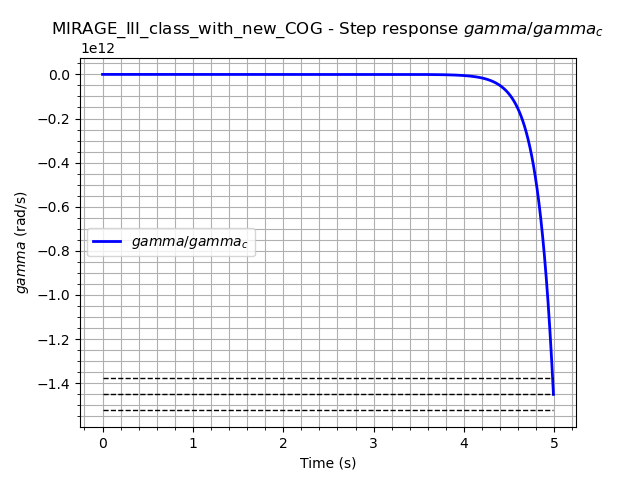
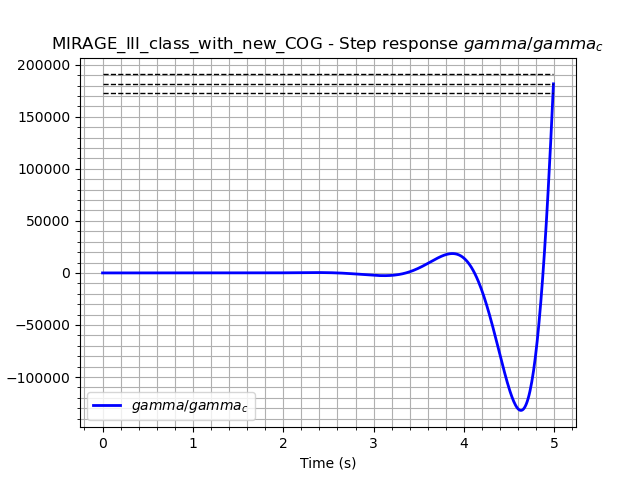
Update v6.01.2025:1

Changed region(s): [[0.0, 0.0312, 0.9375, 0.875]]

diff --git a/lib/control_aircraft_model.py b/lib/control_aircraft_model.py
@@ -477,7 +477,7 @@ class ControlAircraftModel:
         
         
             #close loop matrix definition
-            self.gain_Kr = sisopy31.sisotool(1 * minreal(self.TF_q)) #-0.20954#-0.20954 #sisopy31.sisotool(1 * minreal(self.TF_q))
+            self.gain_Kr = -0.20954 #sisopy31.sisotool(1 * minreal(self.TF_q)) #-0.20954 #sisopy31.sisotool(1 * minreal(self.TF_q))
             self.matrix_A_q = self.matrix_A_new - (self.gain_Kr * np.dot(self.matrix_B_new, self.matrix_C_q))
             self.matrix_B_q = self.gain_Kr * self.matrix_B_new
             self.matrix_D_q = self.gain_Kr * self.matrix_D
@@ -515,7 +515,7 @@ class ControlAircraftModel:
                 labels=[r"$q/q_c$"],
                 title=r"Step response $q/q_c$",
                 xlabel="Time (s)",
-                ylabel=r"$q$ (rad/s)",
+                ylabel=r"$q$",
                 fig_name=f'{self.name} - '+"Step_Response_q_qc",
             )
             
@@ -618,7 +618,7 @@ class ControlAircraftModel:
                 labels=[r"$gamma/gamma_c$"],
                 title=r"Step response $gamma/gamma_c$",
                 xlabel="Time (s)",
-                ylabel=r"$gamma$ (rad/s)",
+                ylabel=r"$gamma$",
                 fig_name=f'{self.name} - '+"Step_Response_gamma_gammac",
             )
 
@@ -664,7 +664,7 @@ class ControlAircraftModel:
                 labels=[r"$z/z_c$"],
                 title=r"Step response $z/z_c$",
                 xlabel="Time (s)",
-                ylabel=r"$z$ (rad/s)",
+                ylabel=r"$z$",
                 fig_name=f'{self.name} - '+"Step_Response_z_zc",
             )
             

diff --git a/README.md b/README.md
@@ -1,5 +1,122 @@
 # Au511 - Modelisation Aéronef Pilote Automatique
 
-## Commande utiles :
+|                       | **Details**                                            |
+|-----------------------|--------------------------------------------------------|
+| **Date of Creation**  | 13.11.2024                                             |
+| **Author**            | Valentin DESFORGES - Pierre VAUDRY                     |
+| **Version**           | v6.01.2024                                             |
+| **Python Version**    | Python 3.12.X                                          |
+| **Key Libraries Used**| `control`, `scipy`, `matplotlib`, `numpy`, `inquirer`  |
 
-> 
+---
+
+## Table of Contents
+1. [Introduction](#introduction)
+2. [Features](#features)
+3. [General Methodology](#general-methodology)
+4. [Installation Instructions](#installation-instructions)
+5. [How to Run the Code](#how-to-run-the-code)
+6. [Results](#results)
+7. [Future Improvements](#future-improvements)
+8. [References](#references)
+
+---
+
+## Introduction
+
+This project is part of the **Control of Aircraft** coursework and focuses on the modeling and control of a fighter aircraft (MIRAGE III class). The goal is to understand the dynamic behavior of an aircraft, analyze its stability, and develop control loops to enhance its performance. The project uses Python's scientific computing ecosystem to implement and analyze control algorithms.
+
+---
+
+## Features
+
+- **Aircraft Modeling**: Comprehensive modeling of an aircraft's dynamics, including aerodynamic coefficients and stability analysis.
+- **Interactive Menu**: A user-friendly CLI to navigate through the steps of analysis and control design.
+- **State Space Representation**: Calculation and display of state-space matrices and transfer functions.
+- **Feedback Control Design**: Implementation of feedback loops for stability and performance improvement.
+- **Dynamic Simulation**: Analysis of open-loop and closed-loop responses using tools like `SISOPY31`.
+
+---
+
+## General Methodology
+
+### **Aircraft Characteristics**
+- Detailed modeling of the MIRAGE III class aircraft, including aerodynamic and mass properties.
+- Utilization of the US 76 Standard Atmosphere Model for atmospheric calculations.
+
+### **Control Design**
+- Calculation of equilibrium points and state-space matrices.
+- Analysis of open-loop modes and transient response.
+- Design of feedback loops (e.g., pitch rate, angle of attack).
+
+### **Tools Used**
+- `SISOPY31`: A Python-based tool equivalent to MATLAB's SISO Tool for root locus and control design.
+
+---
+
+## Installation Instructions
+
+1. **Install Python 3.11 or later.**
+   - Ensure `pip` is installed.
+
+2. **Clone the repository and navigate to the project directory:**
+   ```bash
+   git clone https://github.com/your-repo-url/control-of-aircraft
+   cd control-of-aircraft
+   ```
+
+3. **Install dependencies:**
+   ```bash
+   pip install -r requirements.txt
+   ```
+
+4. **Ensure additional Python packages are installed (if not already):**
+   ```bash
+   conda install -c conda-forge slycot control
+   ```
+
+5. **Prepare the atmospheric data file:**
+   Place `ussa76ut86.txt` in the `./data/` directory.
+
+---
+
+## How to Run the Code
+
+1. Launch the main script:
+   ```bash
+   python main.py
+   ```
+
+2. Follow the interactive menu to select:
+   - Aircraft type
+   - Operations (e.g., equilibrium point analysis, transient phase study, feedback loop design).
+
+3. Outputs, including equilibrium conditions, state-space matrices, and plots, are displayed or saved in the `data/fig/` directory.
+
+---
+
+## Results
+
+### Key Outputs:
+- **Equilibrium Conditions**: Computed coefficients, angles, and forces at equilibrium.
+- **State-Space Representation**: Matrices (A, B, C, D) for dynamic modeling.
+- **Transient Response**: Step responses of open and closed-loop systems.
+- **Root Locus**: Interactive tool to adjust control gains and analyze pole locations.
+
+### Example Plot:
+*(Include a representative plot or figure here.)*
+
+---
+
+## Future Improvements
+
+- Extend modeling to include lateral dynamics.
+- Enhance the GUI for more intuitive interaction.
+- Integrate advanced control methods like LQR or MPC.
+
+---
+
+## References
+
+1. [Practical Work](.\docs\PracticalWork_ControlOfAricraft2024.pdf)
+2. [Python Control](.\docs\pythoncontrol20232024.pdf)
